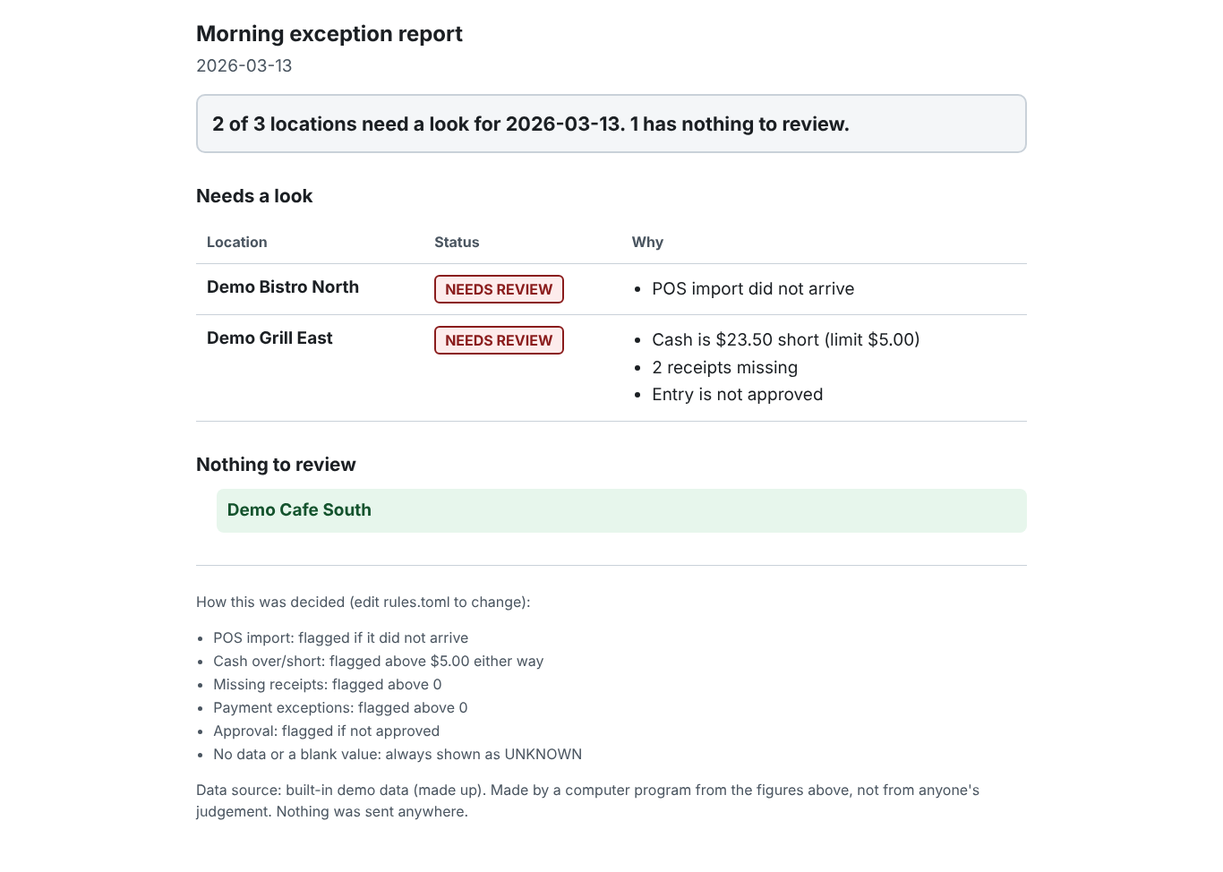
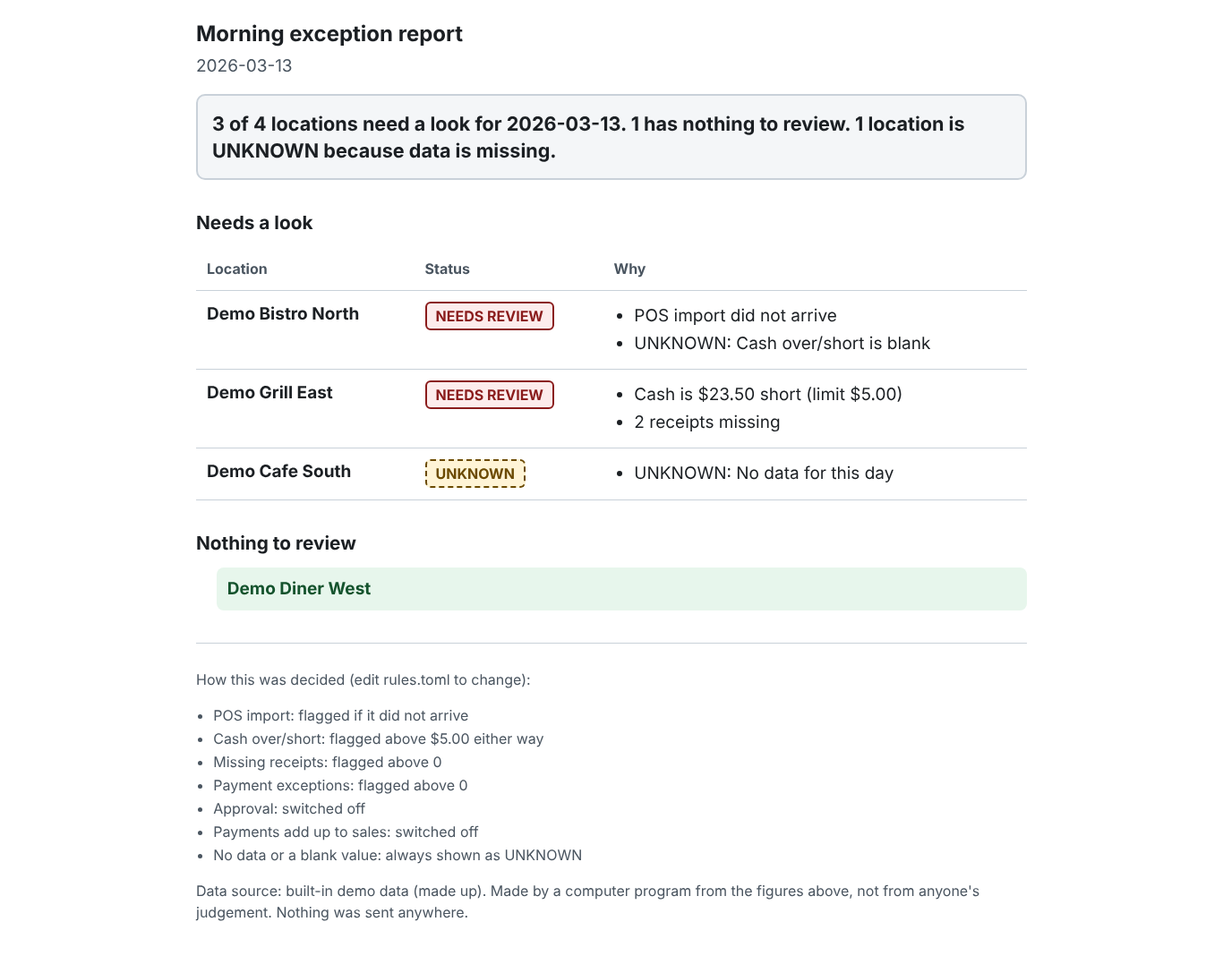
R365-only docs: open questions, local model and mobile plans, README, security notes, new screenshots
Claude-Session: https://claude.ai/code/session_01JW57mYyFAVpjgtiFDVy8wn

diff --git a/README.md b/README.md
@@ -9,54 +9,81 @@ Setup and support are available separately.
 
 All rights reserved — Jay Rohrs.
 
-All restaurants, figures and names in this repository are made up demo data.
+This is an independent tool for Restaurant365 users. It is not made, endorsed or supported by Restaurant365. All restaurants, figures and names in this repository are made up demo data.
 
 ![Demo report on a phone](docs/screenshots/demo-report-390px.png)
 
-Desktop view: [docs/screenshots/demo-report-1366px.png](docs/screenshots/demo-report-1366px.png)
+More pictures: [report on a desktop](docs/screenshots/demo-report-1366px.png), [settings on a phone](docs/screenshots/settings-390px.png), [settings on a desktop](docs/screenshots/settings-1366px.png).
+
+## What is real and what is not yet proven
+
+Please read this before relying on it.
+
+| Part | Status |
+|---|---|
+| The checks, the report, UNKNOWN handling, HTML and email text, settings screen | Built and tested. |
+| Connection to Restaurant365 | Built and tested **only against a pretend server**. It has **never been run against a real R365 tenant**. R365's documentation does not clearly say which data holds the daily sales summary, so the field names are not filled in: the checks show **"needs mapping"** until someone confirms them. See [docs/R365_OPEN_QUESTIONS.md](docs/R365_OPEN_QUESTIONS.md). |
+| Approval check | **Off by default** until R365's approval field is confirmed. |
+| Email through Microsoft 365 | Built and tested only against a pretend Microsoft server. Not tried on a real account. |
+| Windows installer, saved-password storage, automatic schedule | Written, **not yet run on a Windows computer**. |
 
 ## What it does not do
 
-- It does not fix anything, post anything or change any data. It only reads and reports.
+- It does not change anything in R365 or anywhere else. It only reads, and it only writes its own report files.
 - It does not decide what is right. It applies the simple rules in `rules.toml` and shows its reasons.
-- It does not connect to any accounting or POS system out of the box. It reads CSV or JSON files. A reviewer can have an adapter written for their own system (see [docs/ADAPTERS.md](docs/ADAPTERS.md)).
-- It does not email the report. It writes a plain-text email body you can paste or send yourself.
+- It does not fix problems, post entries, or contact anyone but you.
 - It does not check that the figures themselves are correct, only whether they trip a rule or are missing.
+- It is for Restaurant365 only.
+- A check whose data it cannot get is **not run** and is listed in the report as "needs mapping". It never pretends everything is fine.
 
-## Run the demo in 5 minutes
+## Install on Windows (about 5 minutes)
 
-You need Python 3.11 or newer (nothing else to install).
+1. Download this folder (green **Code** button, then **Download ZIP**) and unzip it.
+2. Double-click **`install-windows.cmd`**. If Python is missing it installs it for you through Windows' own installer (winget). It needs no administrator rights.
+3. Two shortcuts appear on your desktop and the settings screen opens:
+   - **DSS Report Settings** - connect to R365, choose locations, set the rules, email and schedule.
+   - **DSS Report Run Now** - makes yesterday's report and opens it.
+4. To remove everything later, double-click **`uninstall-windows.cmd`**.
 
-1. Download or clone this folder and open a terminal in it.
-2. Run: `python -m dssreport run --input demo --out out/`
-3. Open `out/report.html` in your browser. The plain-text email is `out/email.txt`.
+If Windows warns about an unknown publisher, that is because the file is not signed; read it first if you like, it is plain text.
 
-The demo has 3 made-up restaurants and 14 days of data with a few planted problems. By default the report covers the latest day. To see more of the planted problems, including a day with no data (shown as UNKNOWN):
+## Try the demo (no R365 needed)
+
+You need Python 3.11 or newer. In a terminal, in this folder:
+
+`python -m dssreport run --input demo --out out/`
+
+Open `out/report.html` in your browser (and `out/email.txt` for the plain-text email). The demo has 4 made-up restaurants and 14 days of data with planted problems. The default view is the latest day and already shows a location with no data and a blank cash figure as **UNKNOWN**. To see every planted problem:
 
 `python -m dssreport run --input demo --out out/ --days 14`
 
-Other options: `--date 2026-03-12` picks the last day to check; `--rules my-rules.toml` uses another rules file.
+## The settings screen
 
-### Using your own data
+Open it with the desktop shortcut or `python -m dssreport settings`. It is a page in your browser that only your own computer can reach. Every setting has a one-line explanation:
 
-Put a CSV or JSON file in a folder **outside this repository**, then run `python -m dssreport run --input /path/to/file.csv --out out/`. The columns are listed in [docs/ADAPTERS.md](docs/ADAPTERS.md) and an example is in `examples/demo/`. Blank means "not known" and is reported as UNKNOWN, never as zero.
+- **Restaurant365:** connect, address, user name (Domain\Username), password.
+- **Locations:** only these / leave these out.
+- **What counts as a problem:** a tick box and a number for each rule. They are saved into `rules.toml`, which you can still edit by hand.
+- **Email:** prepare an email each run; send to; **send automatically** (off by default - otherwise you get a draft to check and send yourself); sign in to Microsoft 365.
+- **Schedule:** run automatically, time of day, days (weekdays by default). If the computer was off at that time, the report runs once when it next starts and is marked **late**.
+- **Summary sentence (optional):** off by default.
 
-### Changing the rules
+### Connecting to R365
 
-Open `rules.toml` in any text editor. Change the cash limit, switch a rule off, or list locations that must report. A mistyped setting stops the run with a clear message instead of being ignored. A location with no data, or a blank value, is always shown as UNKNOWN. That cannot be switched off.
+R365's address and your login come from R365 (their support enables the OData connector for your database). Enter them in settings and press **Save and test the connection**. The password is kept only in Windows Credential Manager, never in a file. Then the field mapping must be filled in once: run `python -m dssreport r365 discover` to list what your database offers, and put the names in `r365_mapping.toml` (a template is in `r365_mapping.example.toml`). Until then the report says "needs mapping" for every check it cannot do.
 
-### Optional local summary sentence
+### Email
 
-Off by default. To use it, run a local model server that speaks the Ollama-style API on this computer, set `enabled = true` and the model name in the `[ai]` section of `rules.toml` (or add `--ai`). The model gets only counts and location names. Its sentence is checked against the computed facts (numbers, which locations, whether data is missing); if it disagrees, or the model is not running, a standard sentence is used and the report says so. Only `localhost` addresses are accepted.
-
-### Running the tests
-
-`python -m unittest` (49 tests, no extra software).
+Optional. Sign-in is on Microsoft's own page; this program never sees or stores your Microsoft password. By default it only creates a **draft** in your Drafts folder. The report page is attached and the text is in the body.
 
 ## Where your data stays
 
-On your computer. The tool makes no network calls, has no analytics or tracking, and sends nothing anywhere. The only exception is the optional summary, which talks to a model server on the same computer. Reports are written to the folder you choose (`out/` by default, which is ignored by git).
+On your computer. The program makes network calls only to places you set up: your R365 address, Microsoft 365 if you turn email on, and a language model on this same computer if you turn that on. No analytics, no tracking, nothing else. Reports are saved in `%LOCALAPPDATA%\DssReport\reports` (and `out/` for demo runs, which git ignores). The R365 password and Microsoft sign-in live only in the operating system's credential store.
 
 ## Security
 
 See [SECURITY.md](SECURITY.md). **Never commit real data to this repository.** The `.gitignore` blocks common data files, but keep real files outside the repository to be safe.
+
+## For the person maintaining it
+
+Tests: `python -m unittest` (no extra software). Design notes: [docs/DEVELOPER_NOTES.md](docs/DEVELOPER_NOTES.md). Plans, not built: [docs/LOCAL_MODEL_PLAN.md](docs/LOCAL_MODEL_PLAN.md), [docs/MOBILE_PLAN.md](docs/MOBILE_PLAN.md).

diff --git a/docs/R365_OPEN_QUESTIONS.md b/docs/R365_OPEN_QUESTIONS.md
@@ -1,0 +1,57 @@
+# Restaurant365 - what is confirmed, what is not
+
+The rule for this product: follow R365's public documentation only, and **do not guess**. Where a
+detail is not clearly documented, the program treats it as UNKNOWN, the matching check skips itself,
+and the report says "needs mapping".
+
+## How this list was made (read this first)
+
+The build environment could not open R365's documentation website directly. What is written here comes
+from web-search result summaries of R365's public help pages and from third-party descriptions. **A
+person must read the pages below and confirm each item before relying on it.** Nothing here was checked
+against a real R365 tenant, and no real tenant, credential or data was used.
+
+Pages consulted (by search summary only):
+- OData connector: https://docs.restaurant365.com/docs/restaurant365-odata-connector
+- R365 API connector: https://docs.restaurant365.com/docs/r365-api-connector
+- Public API authentication / request access: https://docs.restaurant365.com/apidocs/authentication , https://docs.restaurant365.com/apidocs/request-access
+- Daily Sales Summary pages: https://docs.restaurant365.com/docs/daily-sales-summary , https://docs.restaurant365.com/docs/daily-sales-review-a-dss , https://docs.restaurant365.com/docs/daily-sales-approve-a-dss
+- Third-party (treat with caution): API Evangelist and Supergood listings for Restaurant365.
+
+## What the public documentation appears to say
+
+| Item | What we saw | How the program uses it |
+|---|---|---|
+| OData sign-in | "Domain\Username" with the R365 password (HTTP Basic) | Settings screen asks for exactly that. Sent only to the address you enter, over https. |
+| OData address | `https://odata.restaurant365.net/api/v2/views`, with a `$metadata` document | Not built in. You type the address; "test connection" reads `$metadata`. |
+| Which data OData offers | Documented entity found: Transaction. A page says sales and labor from intraday polling are not in OData, only after polling of the Daily Sales Summary. | Nothing is assumed about a DSS entity. |
+| DSS over/short | The DSS page flags over/short outside -$5.00 to +$5.00 | Our default limit is $5.00, you can change it. |
+| DSS approval | Approval needs the "Approve" permission, is done in the Classic experience, and is immediate and irreversible | See question 3. |
+| Paging | Public API lists use an `items` array and `nextLink`; OData normally uses `@odata.nextLink` | The connector accepts either and follows the link only if it stays on the same website. |
+| Public (non-OData) API | Early-adopter group, closed to new requests when last seen; token-based | **Not used.** |
+
+## Open questions (each one needs a person with a real tenant or R365 support)
+
+Close a question by running `python -m dssreport r365 discover` against your own tenant, reading R365's
+documentation for that entity, then filling in `r365_mapping.toml`.
+
+1. **Which OData entity holds one row per location per business day with the daily-sales-summary figures?** Not clearly documented. If none exists, this product can only use what R365 does expose and some checks will stay "needs mapping".
+2. **What are the property names** for sales total, payments by type, cash over/short, missing receipts, payment exceptions, location name and business date? Unconfirmed. `r365_mapping.toml` ships empty.
+3. **DSS approval status.** The UI concept (approved / complete) is documented; how it appears in OData (a true/false, a status word, an entity of its own) is not. **The approval check ships switched off** and shows "needs mapping" until the mapping and the words that mean approved / not approved are confirmed. Unrecognised words are shown as UNKNOWN, never guessed.
+4. **POS import received.** R365 describes polling/importing sales from the POS. How "the POS import has arrived for that day" can be read through OData is not confirmed.
+5. **"Missing receipts" and "payment exceptions."** The documentation we saw talks about *exception sales tickets* on the DSS; we found no documented DSS concept called "missing receipts". These two counts may not exist in R365 and may need to be renamed or dropped. Until mapped they are skipped.
+6. **Payments add up to sales (optional check).** Needs the sales total and every payment type mapped, and a decision on which payment types count. Ships off, "needs mapping".
+7. **Date filter format** (`2026-03-13` vs `2026-03-13T00:00:00Z`) and **property types.** Set with `date_literal` in the mapping; unconfirmed.
+8. **Query limits.** A third-party review mentions a 31-day cap on sales queries. Unconfirmed; the connector asks for at most 31 days at a time.
+9. **Getting access.** Who in R365 enables the OData connector for a customer, who signs off, and what the agreement says about a third-party program reading the data using the customer's own login. Needs R365 support and a conversation with the customer.
+10. **Locations that return nothing.** A location with no rows can't be seen in the data. The program remembers locations seen on earlier runs and shows a silent one as UNKNOWN; the "Only these locations" setting does the same. The very first run only knows the locations that returned rows.
+
+## Microsoft 365 (email) - also unconfirmed against a real tenant
+
+11. The sign-in needs an **app registration** in the customer's Microsoft 365 (a public client with "allow public client flows" on). Its ID goes in settings. Not done here.
+12. Permissions requested: `Mail.ReadWrite` (create a draft) and, only if "send automatically" is ticked, `Mail.Send`; plus `offline_access` so you don't sign in every day. We believe these are the least that Microsoft documents for creating and sending a message; confirm in the customer's tenant, including whether an administrator must consent.
+13. Conditional-access rules in some tenants block this kind of sign-in.
+
+## Windows pieces - written but not run on Windows
+
+14. `install-windows.cmd`, the Credential Manager store (`credstore.py`) and the Task Scheduler setup (`scheduler.py`) were written carefully and checked for obvious mistakes, but **have not been run on a Windows machine**. Treat the first Windows run as a test.

diff --git a/docs/LOCAL_MODEL_PLAN.md b/docs/LOCAL_MODEL_PLAN.md
@@ -1,0 +1,49 @@
+# Local AI sentence - plan (design only, no code yet)
+
+Status: **design only.** The program already supports an optional one-sentence summary from a model
+running on the same computer (`[ai]` in `rules.toml`, off by default). This note is about making that easy
+to turn on, and what to do when a computer is too small. Nothing here is built.
+
+The rule that does not change: **the report is complete and correct without any AI.** A model sentence is
+decoration. It is checked against the computed facts and thrown away if it disagrees (`summary.py`).
+
+## 1. Offering a small model in the installer
+
+1. After the main install, the installer asks one plain question: *"Add a one-sentence plain-English summary to each report? This downloads a small program and a language model (about N GB) and runs it on your computer. You can skip this; the report works the same without it."* Default: **No**.
+2. If yes, run the **minimum-spec check** first (section 2). If the computer is too small, say so plainly and offer the hosted option (section 3) or skip.
+3. Download the local model server and one small instruction-following model **only after the explicit yes**, from the publisher's official download address, and verify the published checksum before running anything. If verification fails: stop, delete, tell the user.
+4. Choose the model by a short list kept in one file (name, size, minimum RAM, licence). The licence must allow commercial use inside a paid product; check before listing a model.
+5. Write the answers into the settings **instead of the placeholder**: `[ai] enabled = true`, `endpoint = "http://localhost:<port>"`, `model = "<chosen name>"`. The installer fills in the model name; nobody types it.
+6. Self-test with the demo report: ask for a sentence, run it through `sentence_agrees()`, show the user the result. If it fails twice, switch AI back off and say why.
+7. The uninstaller offers to remove the model and server (they are large).
+
+## 2. Minimum-spec check (read-only, local)
+
+| Check | Suggested minimum | How (standard library) |
+|---|---|---|
+| 64-bit Windows 10/11 | required | `platform`, `struct.calcsize("P")` |
+| Free memory | about 8 GB total RAM, 4 GB free | Windows `GlobalMemoryStatusEx` via `ctypes` |
+| Free disk | 6 GB free on the install drive | `shutil.disk_usage` |
+| CPU | 4 cores | `os.cpu_count()` |
+| GPU | not required | - |
+
+Numbers are placeholders to be set after timing a real model on a typical office laptop; measure
+time-to-sentence and set a maximum acceptable wait (the report must never wait on it: it is generated
+after the report is saved, with a short timeout, then the page is rewritten or the template sentence stays).
+
+## 3. Fallback: "use hosted AI" (Jay could bill for this later)
+
+For computers that fail the check, or owners who prefer not to run a model.
+
+- **Opt-in per computer, off by default**, with a plain warning: *this sends a short summary of counts and location names (never dollar figures, receipts or personal data) to a service run by Jay Rohrs.* It breaks the "your data never leaves your computer" promise for that one sentence, so it must be a deliberate choice and visible in settings.
+- **What is sent:** exactly the facts block already built for the local model (period, number of locations, which need a look, how many are UNKNOWN). Location names are customer data - say so, and offer "send numbers only, use generic names" (Location A, B).
+- **Same safety check:** the returned sentence goes through `sentence_agrees()`; a disagreeing sentence is discarded and the template sentence used.
+- **Where it talks to:** a single address Jay controls, https only, per-customer key stored in the OS credential store (like the R365 password), never in a file. The settings screen gets one more tick and nothing else.
+- **Billing hooks, not built now:** each customer has an ID and key; the service counts requests per key per month. Price and invoicing are Jay's decision. Do not store card details in this program.
+- **Needed before building:** a hosted endpoint with its own privacy notice and data-processing terms, a retention rule (suggest: do not store prompts or replies), rate limits, and a kill switch.
+
+## Decisions for Jay
+
+1. Is a local model worth the install size and support cost, or is hosted-only simpler?
+2. Which model(s) and licence?
+3. Is "hosted AI" something you want to sell and support? If yes, who hosts it and what do customers sign?

diff --git a/docs/MOBILE_PLAN.md b/docs/MOBILE_PLAN.md
@@ -1,0 +1,48 @@
+# Seeing the report while travelling - plan (design only, no code yet)
+
+The owner travels and wants the morning report on a phone. The report page is already readable at phone
+width (screenshots at 390 px). The question is how it gets to the phone **safely**, since it holds sales
+figures. Two options.
+
+## Option A - a private link to the saved report, behind a login
+
+How it would work: after each run the program uploads the finished report page to a small service Jay
+operates. The owner opens a link on their phone, signs in, and sees it.
+
+What it needs:
+- A hosted service (new infrastructure, run by Jay) that holds customers' sales figures. This is the big change: today nothing leaves the computer.
+- **Authentication:** passkey or password **plus** a second factor; or a one-time sign-in link sent by email that expires in minutes. Sessions short-lived; sign-out everywhere.
+- **Link safety:** long unguessable addresses are *not* security; every page request must check the login. Time-limited signed links as an extra, not a replacement.
+- **Isolation:** each customer's reports kept apart, encrypted at rest and in transit, access logged.
+- **Retention:** delete reports after N days (suggest 30), customer can delete on demand.
+- Upload only the rendered report (the same page and email text), never raw R365 data or credentials; per-customer upload key kept in the OS credential store.
+- Breach plan, privacy notice, and customer terms - Jay becomes a custodian of the customer's financial data.
+
+Good: history in one place, works for people who don't use Microsoft 365, can later add push alerts.
+Bad: most to build and secure; a real liability; contradicts "your data never leaves your computer" unless carefully presented as an option.
+
+## Option B - email only
+
+How it would work: the report already arrives as an email in the owner's own mailbox (Microsoft 365 draft or automatic send, built in this phase). The phone's mail app opens it; the HTML page is attached and the text body is readable on its own.
+
+What it needs: nothing new to host. Protection comes from the mailbox's own login and phone lock.
+- Keep figures out of the **subject line** and the first lines (lock-screen previews). Today the subject carries counts only, no dollar amounts.
+- Warn that forwarding the email forwards the figures.
+- "Send automatically" stays off by default; draft-first remains the safe path.
+- If the computer is off at the scheduled time, the run happens on next start and is labelled late - so travel plus a sleeping office computer means a late email, not a missing one. Say this in the README.
+
+Good: no new data custody, nothing to secure on Jay's side, already built, keeps the privacy promise.
+Bad: no history page, depends on the office computer being on, attachments can be forwarded.
+
+## Recommendation
+
+**Start with Option B (email only).** It is built, it needs no hosting, and it keeps the promise that sales
+data stays on the customer's side. Revisit Option A only if customers ask for something email can't do
+(history, a computer that is often off), and only after deciding who hosts it, what customers sign, and
+who answers if something goes wrong. If A is ever built, make it a separate, clearly labelled opt-in.
+
+## Decisions for Jay
+
+1. Agree Option B for now?
+2. If A later: hosting provider, sign-in method, retention period, customer terms.
+3. Does the office computer stay on overnight? If not, the "late run" behaviour matters more.

diff --git a/docs/DEVELOPER_NOTES.md b/docs/DEVELOPER_NOTES.md
@@ -1,0 +1,51 @@
+# Developer notes (internal)
+
+This is for whoever maintains the program. Reviewers do not need it.
+
+## How the pieces fit
+
+```
+data source ──► DayRecord list ──► rules (rules.toml) ──► Report ──► report.html + email.txt ──► (optional) Microsoft 365 draft
+(R365 / demo / files)
+```
+
+The product's one real data source is **Restaurant365, read-only** (`dssreport/r365.py`). The demo generator and the CSV/JSON reader exist so the program can be tried, demonstrated and tested without any tenant. The source is kept behind a small interface (`dssreport/adapters/base.py`) only so these three can share the rules and report code.
+
+## The record
+
+| Field | Meaning | Unknown is |
+|---|---|---|
+| `location` | name (required) | — |
+| `business_date` | date (required) | — |
+| `sales_total` | money | `None` |
+| `payments` | payment type → money | `None` per type |
+| `cash_over_short` | money; negative = short, positive = over | `None` |
+| `missing_receipts` | whole number | `None` |
+| `payment_exceptions` | whole number | `None` |
+| `approved` | true/false | `None` |
+| `pos_import_received` | true/false | `None` |
+
+**Rule one:** a blank or unavailable value is `None`. Never fill a gap with 0 or False. `None` is reported as UNKNOWN.
+
+**Rule two:** a source that cannot provide a field *at all* lists it in `adapter.unmapped`. Checks that need it are skipped and shown as "needs mapping" (not as UNKNOWN on every row, and never as clean).
+
+## Demo / test file format (CSV or JSON)
+
+CSV columns: `location, business_date (YYYY-MM-DD), sales_total, pay_<type> (any number), cash_over_short, missing_receipts, payment_exceptions, approved (yes/no), pos_import_received (yes/no)`. Blank = unknown. JSON is a list of objects with the same names and `payments` as an object. See `examples/demo/`. Bad values stop the run and say which row; two rows for the same location and day stop the run and say which two and how to fix it.
+
+## Where things are
+
+| File | Job |
+|---|---|
+| `rules.py`, `report.py` | the checks and the report facts |
+| `render.py` | HTML page and plain-text email |
+| `r365.py` | read-only OData client, field mapping, `$metadata` discovery |
+| `credstore.py` | OS credential store (Windows Credential Manager; Linux `secret-tool`) |
+| `graph.py` | Microsoft 365 sign-in (device code) and draft/send |
+| `settings.py`, `settings_server.py` | the settings screen and `settings.json` |
+| `scheduler.py` | what to do when woken, late label, Windows Task Scheduler XML |
+| `summary.py` | optional local-model sentence and the check that discards a wrong one |
+
+## Tests
+
+`python -m unittest`. Everything that talks to the network is tested only against local mocks in `tests/mock_r365.py` and `tests/mock_graph.py` (made-up data, invented names). Passing tests do **not** prove the R365 or Microsoft connections work against the real services; see `docs/R365_OPEN_QUESTIONS.md`.

diff --git a/SECURITY.md b/SECURITY.md
@@ -1,10 +1,13 @@
 # Security notes
 
 - **Never commit real data.** Real sales figures, location names or exports must stay on your computer, outside this repository. `.gitignore` blocks `data/`, `private/`, `input/`, `out/` and all `.csv`, `.json`, `.xls`, `.xlsx` files except under `examples/` and `tests/fixtures/`. If real data is ever committed, treat it as exposed: removing it from the latest commit does not remove it from history.
-- **No credentials in the repo.** The tool needs none. If you later write an adapter that needs a key or password, read it from an environment variable or a file outside the repository, and never write it into code, `rules.toml` or a commit.
-- **No network use.** Nothing is sent anywhere. The optional summary only contacts an address on the same computer (`localhost`, `127.0.0.1`); other addresses are refused.
-- **Generated reports contain your figures.** Treat `out/` like the data it came from.
-- **Adapters are code that runs on your computer.** Only use adapters you or someone you trust wrote, and keep them read-only.
-- All data in this repository is made up.
+- **No credentials in the repo, in files, or in logs.** The R365 password and the Microsoft 365 sign-in token are kept only in the operating system's credential store (Windows Credential Manager; Linux `secret-tool`). If no secure store exists the program refuses to save them. They are never written to `settings.json`, `rules.toml`, reports, state or logs, and never shown in the settings page. `python -m dssreport forget-secrets` (also run by the uninstaller) removes them.
+- **R365 is read-only.** The connector can only send GET requests, sends your sign-in only to the address you configured over https, refuses redirects and refuses next-page links that point to another website.
+- **Microsoft 365 uses delegated sign-in.** You sign in on Microsoft's page; no password is stored. It asks for the least permission: create a draft. The extra permission to send is requested only if you tick "send automatically", which is off by default.
+- **Network calls are only these:** your R365 address, Microsoft sign-in/Graph (if email is on), and a language model on this computer (if on). No analytics or telemetry.
+- **The settings screen is local only.** It listens on 127.0.0.1, needs a random one-time token that exists only in the address the program opens, checks the Host and Origin headers, and never logs requests.
+- **Generated reports contain your figures.** Treat the reports folder like the data it came from.
+- **The installer** needs no administrator rights, downloads nothing itself (Python, if missing, comes from Windows' own winget) and installs under your user folder.
+- All data in this repository is made up. No real tenant, credential or person is used anywhere, including the tests, which use local mock servers.
 
 To report a problem, contact Jay Rohrs directly rather than posting details publicly.
